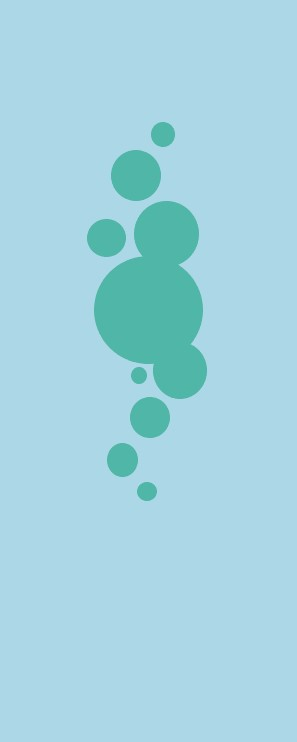
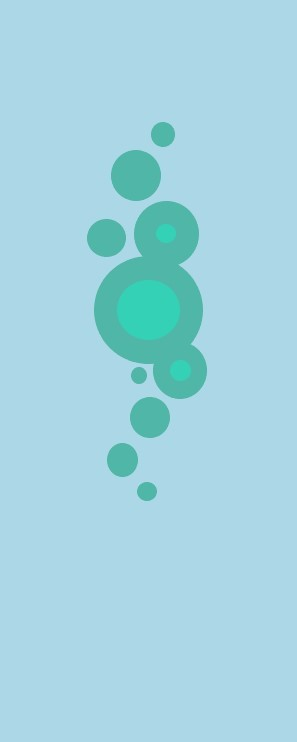
Added Design to Login/Account Creation pages

Changed region(s): [[0.3939, 0.372, 0.6364, 0.527], [0.5152, 0.279, 0.6061, 0.341]]

diff --git a/my-react-app/src/Pages/CreateTeacherAccount.js b/my-react-app/src/Pages/CreateTeacherAccount.js
@@ -12,6 +12,7 @@ import { useNavigate } from 'react-router-dom';
 // background image
 import bg from '.././Images/bg.jpg';
 import dark_bg from '.././Images/dark_bg.jpg';
+import bg_img_left from '.././Images/bg_img_left.jpg'
 
 // dark theme functionality
 import * as themes from '.././Config';
@@ -144,92 +145,103 @@ function CreateTeacherAccount() {
         }}
       />
       <PlainNavBar text='Edu Hub Collaborate' />
-      <Container maxWidth='sm' style={{ background: styleProps.containerColor, marginTop: '5%', height: '950px', marginBottom:'75px'}} >
-        <Grid container spacing={5}
-            direction="column"
-            alignItems="center"
-            justifyContent="center">
-        <Grid item xs={12} style={{ marginTop: '5%', marginBottom: '5%'}}>
-            <HeaderBox text={'Create Teacher Account'}></HeaderBox>
-        </Grid>
-        <Grid item xs={12}>
-        <TextField
-          variant="filled"
-          label="College Email"
-          value={values.email}
-          onChange={(e) => setValues({ ...values, email: e.target.value })}
-        />
-        </Grid>
-
-        <Grid item xs={12}>
-        <TextField
-          variant="filled"
-          label="Password"
-          type="password"
-          value={values.password}
-          onChange={(e) => setValues({ ...values, password: e.target.value })}
-        />
-        </Grid>
-        <Grid item xs={12}>
-          <TextField
-            variant="filled"
-            label="Confirm Password"
-            type="password"
-            value={values.cpassword}
-            onChange={(e) => setValues({ ...values, cpassword: e.target.value })}
-          />
-        </Grid>
-
-        {/* Incorporate the upload option */}
-        <Grid item xs={12} md={6}>
-          <Box component="section" sx={{ p: 1, mt: 3, border: '2px solid grey', textAlign: 'center' }}>
-            <Typography align='center'>
-              Please designate a document as evidence of your status as an educator.
-            </Typography>
-            <Divider sx={{ my: 2 }} />
-            <input
-              filename={file}
-              onChange={e => setFile(e.target.files[0])}
-              type="file"
-              accept="image/*"
-              style={{ display: 'block', margin: 'auto' }}
-            />
-          </Box>
-        </Grid>
       
 
-        <Box sx={{ width: '100%', mt: 3 }}>
-          {/* TextField and Button components remain the same */}
-        </Box>
-        
-          <Grid item xs={12} alignContent="center" alignItems="center" justifyContent="center" display="flex">
-            <Button variant="contained" onClick={handleClickSubmit} style={{ width: '200px', background: buttonColor, color: textColor}} 
-            sx={{fontFamily: 'Courier New', fontSize: 'large'}}>
-              Submit
-            </Button>
-          </Grid>
-          <Grid item xs={12} alignContent="center" alignItems="center" justifyContent="center" display="flex">
-            <Button variant="contained" onClick={handleClickBack} style={{ width: '100px', background: buttonColor, color: textColor}} 
-            sx={{fontFamily: 'Courier New', fontSize: 'large'}}>
-              Back
-            </Button>
-          </Grid>
-          <Grid item xs={12} alignContent="center" alignItems="center" justifyContent="center" display="flex">
-            <Button
-              variant="text"
-              size="small"
-              onClick={handleLoginClick}
-              color='secondary'
-              sx={{
-                '&:hover': {
-                  backgroundColor: 'transparent',
-                },
-              }}>
-              Already have an account?
-            </Button>
-          </Grid>
+    
+      <Grid container direction="row" alignItems="center"
+            justifyContent="center">
+        <Grid item >
+          <img src={bg_img_left} alt="bubbles"/>
         </Grid>
-      </Container>
+        <Grid item sx={{marginTop: '5%', width: '50%'}}>
+          <Container maxWidth='sm' style={{ background: styleProps.containerColor, height: '950px', marginBottom:'75px'}} >
+          <Grid container spacing={5}
+              direction="column"
+              alignItems="center"
+              justifyContent="center">
+          <Grid item xs={12} style={{ marginTop: '5%', marginBottom: '5%'}}>
+              <HeaderBox text={'Create Teacher Account'}></HeaderBox>
+          </Grid>
+          <Grid item xs={12}>
+          <TextField
+            variant="filled"
+            label="College Email"
+            value={values.email}
+            onChange={(e) => setValues({ ...values, email: e.target.value })}
+          />
+          </Grid>
+
+          <Grid item xs={12}>
+          <TextField
+            variant="filled"
+            label="Password"
+            type="password"
+            value={values.password}
+            onChange={(e) => setValues({ ...values, password: e.target.value })}
+          />
+          </Grid>
+          <Grid item xs={12}>
+            <TextField
+              variant="filled"
+              label="Confirm Password"
+              type="password"
+              value={values.cpassword}
+              onChange={(e) => setValues({ ...values, cpassword: e.target.value })}
+            />
+          </Grid>
+
+          {/* Incorporate the upload option */}
+          <Grid item xs={12} md={6}>
+            <Box component="section" sx={{ p: 1, mt: 3, border: '2px solid grey', textAlign: 'center' }}>
+              <Typography align='center'>
+                Please designate a document as evidence of your status as an educator.
+              </Typography>
+              <Divider sx={{ my: 2 }} />
+              <input
+                filename={file}
+                onChange={e => setFile(e.target.files[0])}
+                type="file"
+                accept="image/*"
+                style={{ display: 'block', margin: 'auto' }}
+              />
+            </Box>
+          </Grid>
+         
+            <Grid item xs={12} alignContent="center" alignItems="center" justifyContent="center" display="flex">
+              <Button variant="contained" onClick={handleClickSubmit} style={{ width: '200px', background: buttonColor, color: textColor}} 
+              sx={{fontFamily: 'Courier New', fontSize: 'large'}}>
+                Submit
+              </Button>
+            </Grid>
+            <Grid item xs={12} alignContent="center" alignItems="center" justifyContent="center" display="flex">
+              <Button variant="contained" onClick={handleClickBack} style={{ width: '100px', background: buttonColor, color: textColor}} 
+              sx={{fontFamily: 'Courier New', fontSize: 'large'}}>
+                Back
+              </Button>
+            </Grid>
+            <Grid item xs={12} alignContent="center" alignItems="center" justifyContent="center" display="flex">
+              <Button
+                variant="text"
+                size="small"
+                onClick={handleLoginClick}
+                color='secondary'
+                sx={{
+                  '&:hover': {
+                    backgroundColor: 'transparent',
+                  },
+                }}>
+                Already have an account?
+              </Button>
+            </Grid>
+          </Grid>
+        </Container>
+        </Grid>
+
+        <Grid item>
+          <img src={bg_img_left} alt="bubbles"/>
+        </Grid>
+        
+      </Grid>
     </div>
   );
 }

diff --git a/my-react-app/src/Pages/CreateStudentAccount.js b/my-react-app/src/Pages/CreateStudentAccount.js
@@ -12,6 +12,7 @@ import { useNavigate } from 'react-router-dom';
 // background images
 import bg from '.././Images/bg.jpg';
 import dark_bg from '.././Images/dark_bg.jpg';
+import bg_img_left from '.././Images/bg_img_left.jpg'
 
 // dark theme functionality
 import * as themes from '.././Config';
@@ -25,15 +26,6 @@ function CreateStudentAccount() {
   const theme = useTheme();
 
   const customGreenColor = '#009688';
-
-  /*
-  const [values, setValues] = React.useState({
-    cpassword: ''
-  })*/
-          // <Grid item xs={1}>
-          // <TextField id="filled-basic" label="Confirm password" variant="filled" type="password" 
-          //  onChange={e => setValues({...values,cpassword:e.target.value})}/>
-          //</Grid>
 
   const [email, setEmail] = React.useState('');
   const [password, setPassword] = React.useState('');
@@ -135,7 +127,14 @@ function CreateStudentAccount() {
         }}
       />
       <PlainNavBar text='Edu Hub Collaborate' />
-      <Container maxWidth='sm' style={{ background: styleProps.containerColor, marginTop: '5%', height: '650px', marginBottom:'75px'}} >
+      
+      <Grid container direction="row" alignItems="center"
+            justifyContent="center">
+        <Grid item >
+          <img src={bg_img_left} alt="bubbles"/>
+        </Grid>
+        <Grid item sx={{marginTop: '5%', width: '50%'}}>
+        <Container maxWidth='sm' style={{ background: styleProps.containerColor, height: '650px', marginBottom:'75px'}} >
         <Grid container spacing={5}
             direction="column"
             alignItems="center"
@@ -198,6 +197,13 @@ function CreateStudentAccount() {
           </Grid>
         </Grid>
       </Container>
+        </Grid>
+
+        <Grid item>
+          <img src={bg_img_left} alt="bubbles"/>
+        </Grid>
+        
+      </Grid>
     </div>
   );
 }

diff --git a/my-react-app/src/Pages/Login.js b/my-react-app/src/Pages/Login.js
@@ -15,8 +15,9 @@ import { useState } from 'react';
 
 // Assuming the use of the same background image
 import bg from '.././Images/bg.jpg';
-// Used to make http requests from the browser
+import bg_img_left from '.././Images/bg_img_left.jpg'
 
+// Used to make http requests from the browser
 import axiosInstance from '../helpers/axios';
 
 // used to handle user toggled dark mode
@@ -139,7 +140,13 @@ function Login({onLogin}) {
         }}
       ></Box>
 
-        <Container maxWidth='sm' style={{ background: containerColor, marginTop: '5%', height: '650px', marginBottom:'75px'}} >
+        <Grid container direction="row" alignItems="center"
+            justifyContent="center">
+        <Grid item >
+          <img src={bg_img_left} alt="bubbles"/>
+        </Grid>
+        <Grid item sx={{marginTop: '5%', width: '50%'}}>
+        <Container maxWidth='sm' style={{ background: containerColor, height: '650px', marginBottom:'75px'}} >
           <Grid container spacing={5}
               direction="column"
               alignItems="center"
@@ -213,6 +220,13 @@ function Login({onLogin}) {
             </Grid>
           
         </Container>
+        </Grid>
+
+        <Grid item>
+          <img src={bg_img_left} alt="bubbles"/>
+        </Grid>
+        
+      </Grid>
     </div>
 
   );

diff --git a/my-react-app/src/Pages/AccountSelection.js b/my-react-app/src/Pages/AccountSelection.js
@@ -67,10 +67,14 @@ function AccountSelection() {
   
       <PlainNavBar text='Edu Hub Collaborate'></PlainNavBar >
 
-      
-
-      {/* Container and Grid organizes HeaderBox and Buttons */}
-      <Container maxWidth='sm' style={{ background: containerColor, marginTop: '5%', height: '650px', marginBottom:'75px'}} >
+      <Grid container direction="row" alignItems="center"
+            justifyContent="center">
+        <Grid item >
+          <img src={bg_img_left} alt="bubbles"/>
+        </Grid>
+        <Grid item sx={{marginTop: '5%', width: '50%'}}>
+          {/* Container and Grid organizes HeaderBox and Buttons */}
+      <Container maxWidth='sm' style={{ background: containerColor, height: '650px', marginBottom:'75px'}} >
         <Grid container spacing={5}
             direction="column"
             alignItems="center"
@@ -102,6 +106,15 @@ function AccountSelection() {
           
         </Grid>
       </Container>
+      </Grid>
+
+        <Grid item>
+          <img src={bg_img_left} alt="bubbles"/>
+        </Grid>
+        
+      </Grid>
+
+      
     </div>
   );
 }

diff --git a/my-react-app/src/Pages/CreateNotecards.js b/my-react-app/src/Pages/CreateNotecards.js
@@ -206,7 +206,7 @@ function CreateNotecards() {
                                 <Divider sx={{p: '5%', marginBottom: '8%'}}></Divider>
                                 
                                 <Typography sx={{ fontSize: 20 }} gutterBottom>
-                                Defenition:
+                                Definition:
                                 </Typography>
                                 <Typography variant="body2">
                                 <TextField id="filled-multiline-static"
